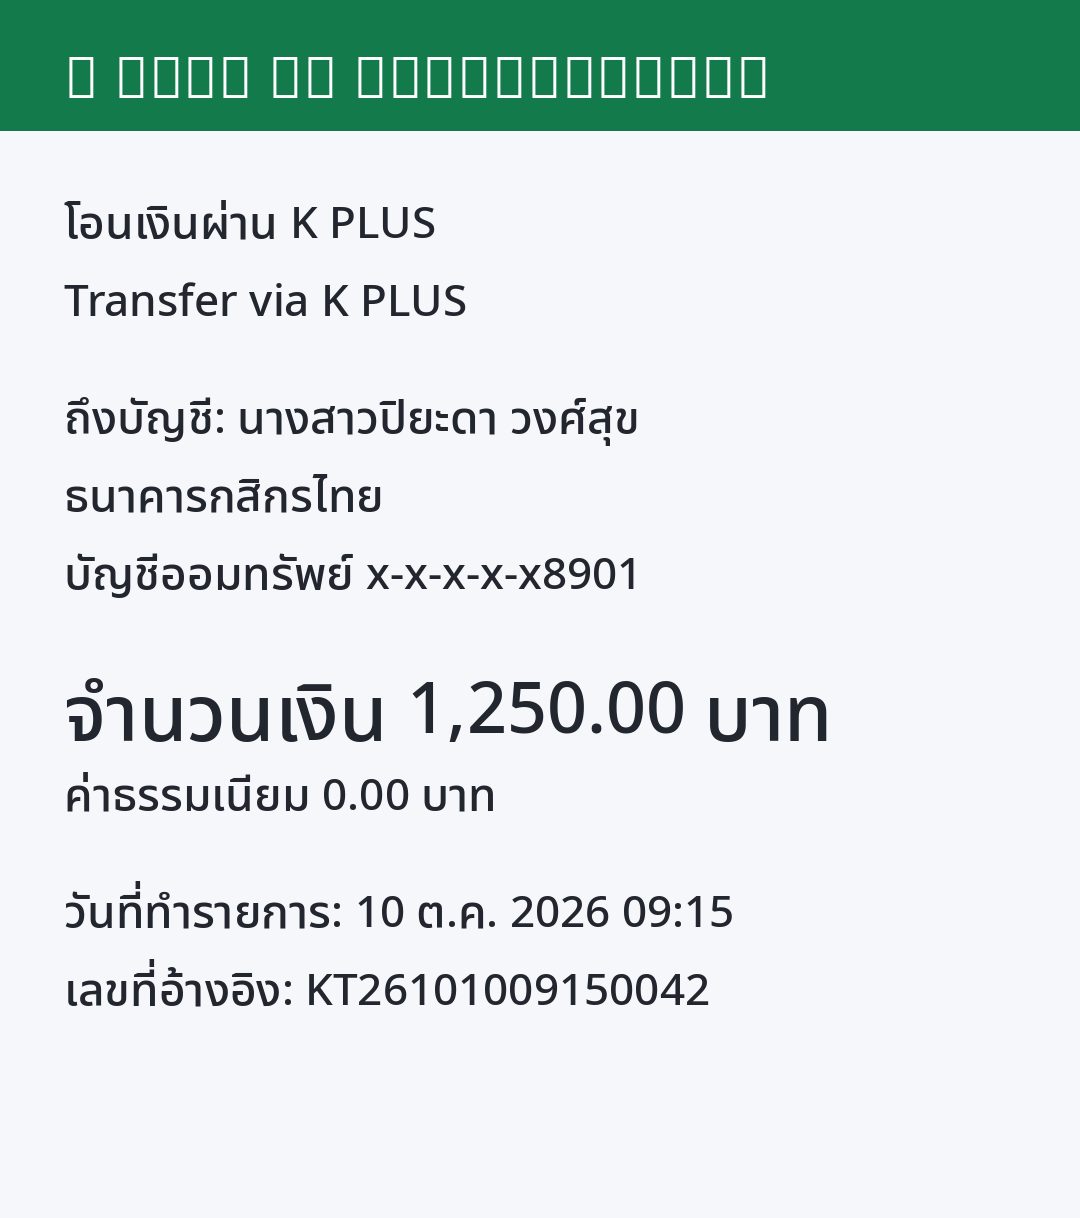
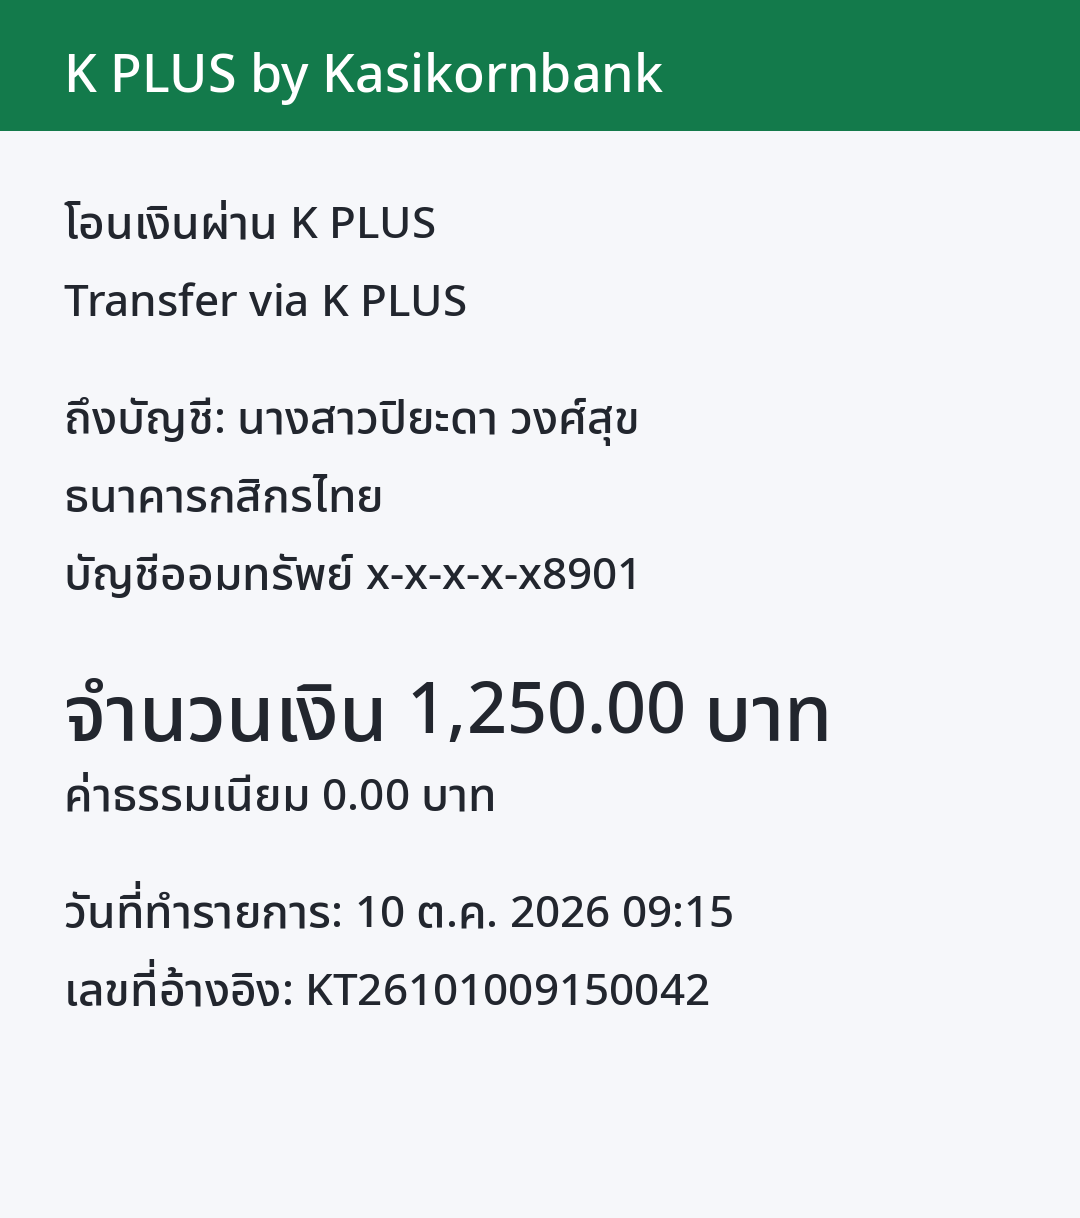
Draw fixture headers through the mixed-script renderer
The KBank header is Latin and went through the Thai-only font path,
rendering tofu. Headers now use the same Thai and Latin run split as
body lines.

Changed region(s): [[0.0611, 0.0312, 0.7028, 0.0936]]

diff --git a/testdata/make_slips.py b/testdata/make_slips.py
@@ -203,7 +203,7 @@ def render(name: str, spec: dict, width: int = 1080) -> None:
     d = ImageDraw.Draw(img)
     d.rectangle([0, 0, width, 130], fill=spec["accent"])
     fg_head = (255, 255, 255)
-    d.text((pad, 36), spec["bank"], font=header, fill=fg_head)
+    draw_mixed(d, (pad, 36), spec["bank"], header, header_latin, fg_head)
     fg = (240, 240, 245) if spec["dark"] else (34, 38, 46)
     y = 190
     for line in spec["lines"]:
